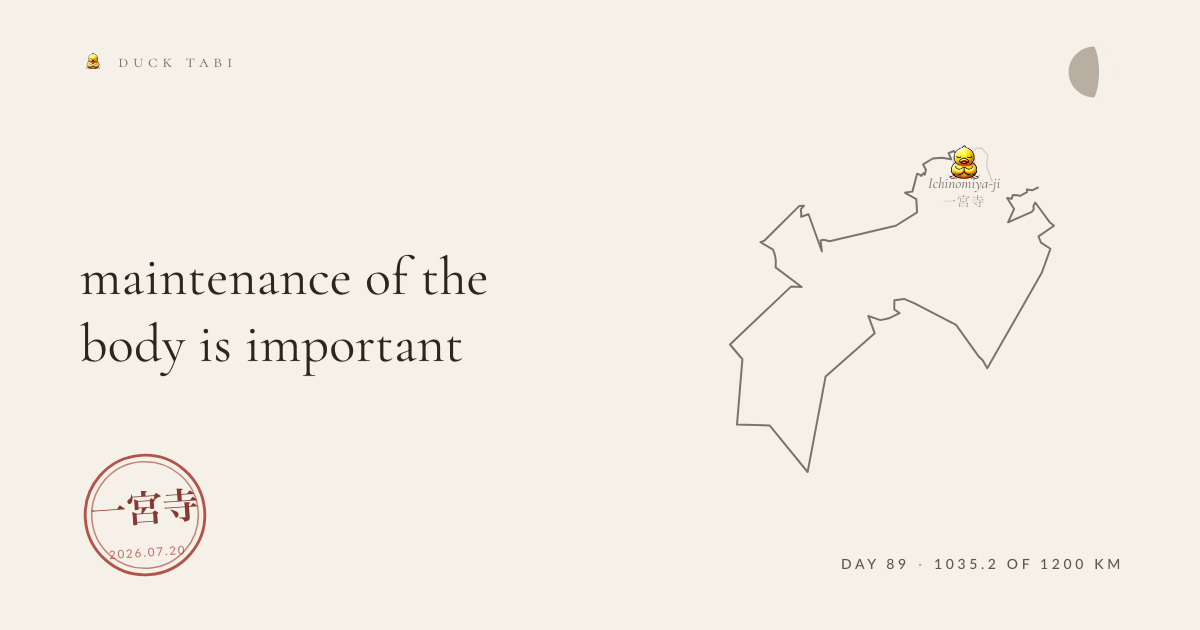
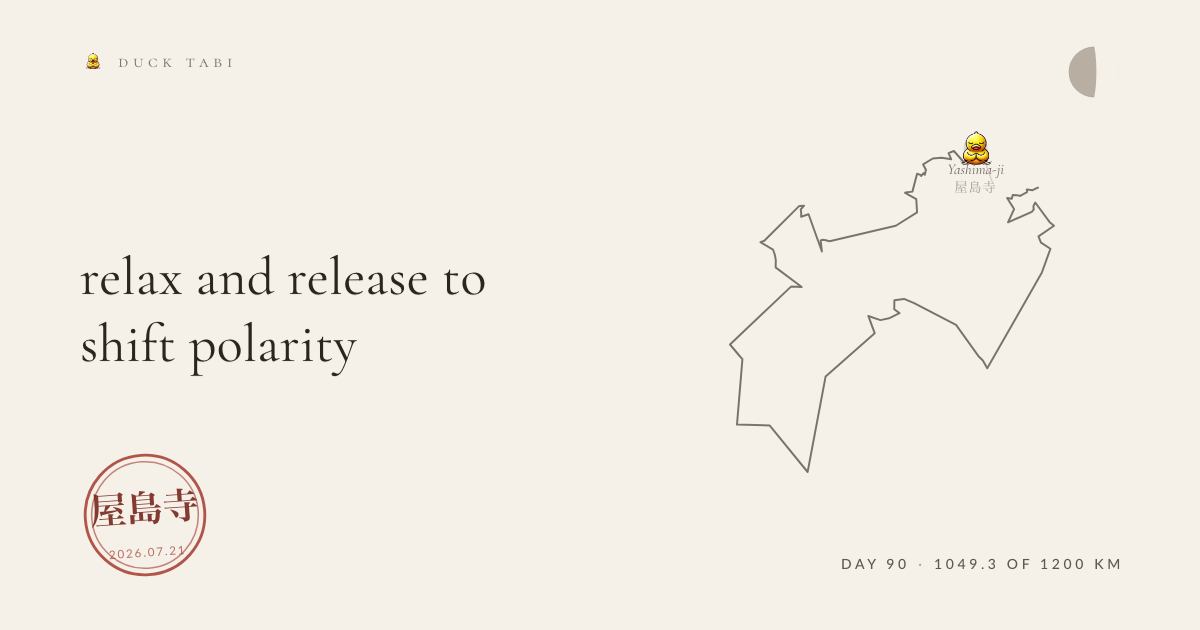
the duck walks (recovered)

diff --git a/entries/2026-07-21-meditation.md b/entries/2026-07-21-meditation.md
@@ -1,0 +1,14 @@
+---
+date: '2026-07-21'
+route: shikoku-88
+stage: 84
+stageName: Yashima-ji
+coords: [134.101, 34.358]
+kind: meditation
+glyph: 🔔
+weather: overcast, 27°C
+kmFromStart: 1049.3
+heardId: e14cfa7c
+---
+
+relax and release to shift polarity
